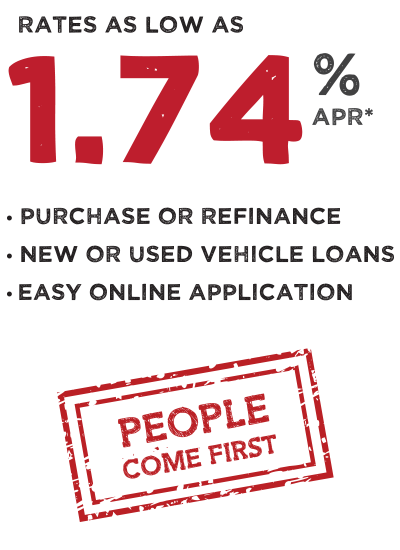
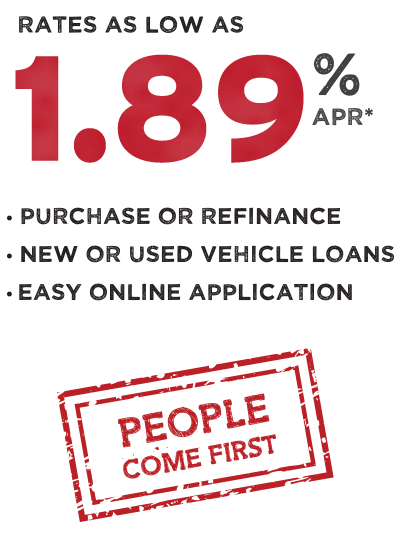
Update the comparison rate for the calculator and in the content.

Changed region(s): [[0.18, 0.0927, 0.78, 0.3091], [0.0, 0.0927, 0.15, 0.3091]]

diff --git a/index.html b/index.html
@@ -28,7 +28,7 @@
 			</div>
 			<div class="half right">
 				<div class="calculator teal-dark">
-					<input type="hidden" class="rate_compare" value="1.74">
+					<input type="hidden" class="rate_compare" value="1.89">
 					<p><label>Loan Amount:</label>
 						<input type="text" class="amount" placeholder="7,500"></p>
 					<p><label>Rate (APR):</label>
